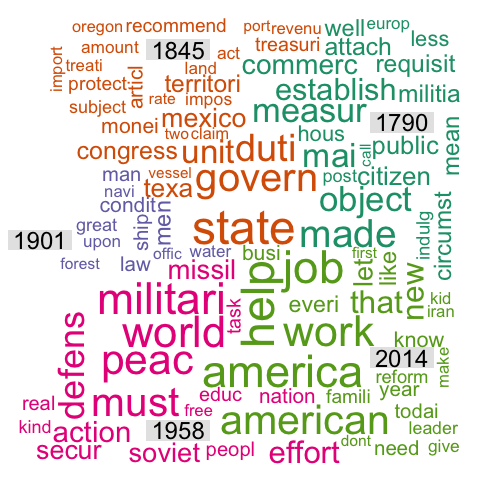
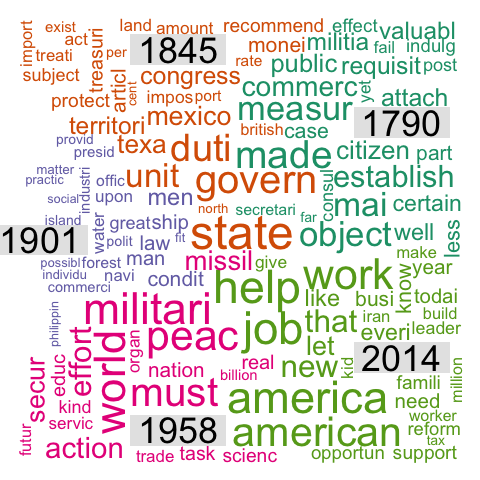
final tweaks

diff --git a/homework4/README.md b/homework4/README.md
@@ -11,7 +11,7 @@ First I wrote a script `scrape-sotu.py` that programmatically extracts the conte
 
 ### Outliers ###
 
-Because I was interested in the SOTU corpus *changes* over time, I coerced the term document matrix into a dataframe and melted it down to a longer format to appease `ggplot2`. For each word in the term document matrix, I calculated a crude but effective index of "outlieriness" by subtracting the word's mean frequency from its maximum frequency. I then plotted a multiple line chart for the words that ranked highest according to this measure. To improve the data-to-ink ratio, I removed unnecessary vertical grid lines, leaving only the major horizontal gridlines and tick marks. I only label the time axis every decade, as opposed to every year. I opted to remove the title of the x axis entirely, because I feel context is sufficient to immediately assume that the numbers are dates. The most interesting design choice that I made was to completely remove the legend. Because the entire point of the visualization is to look at the *outliers*, I simply annotated the outlying point for each word. This reduces the eye movement necessary to consume the plot and frees up more space for the actual line chart, not to mention the fact that the colors would have been hard to use on their own anyways. Lastly, this chart is best viewed with a slightly higher aspect ratio than most plots that I usually generate.
+Because I was interested in the SOTU corpus *changes* over time, I coerced the term document matrix into a dataframe and melted it down to a longer format to appease `ggplot2`. For each word in the term document matrix, I calculated a crude but effective index of "outlieriness" by subtracting the word's mean frequency from its maximum frequency. I then plotted a multiple line chart for the words that ranked highest according to this measure. To improve the data-to-ink ratio, I removed unnecessary vertical grid lines, leaving only the major horizontal gridlines and tick marks. I only label the time axis every decade, as opposed to every year. I opted to remove the title of the x axis entirely, because I feel context is sufficient to immediately assume that the numbers are dates. The most interesting design choice that I made was to completely remove the legend. Because the entire point of the visualization is to look at the *outliers*, I simply annotated the outlying point for each word. This reduces the eye movement necessary to consume the plot and frees up more space for the actual line chart, not to mention the fact that the colors would have been hard to use on their own anyways. Lastly, this chart is best viewed with a slightly higher aspect ratio than most plots that I usually generate. Overplotting addmittedly makes it a bit difficult to follow any particular word over time, but this isn't the intended way for a viewer to be interpreting the plot anyways. Line charts, when using proper axes that start at zero, etc, generally have a relatively low lie factor, and I don't believe this chart to be an exception.
 
 ![Outliers](https://github.com/justmytwospence/msan622/blob/master/homework4/outliers.png?raw=true)
 
@@ -22,3 +22,5 @@ I belive that this plot has a very apparent and interesting interpetation. Essen
 Rather than creating a single wordcloud, I used a comparison wordcloud to create an alternative view of the SOTU over time theme of the previous plot. One could make the argument that a wordcloud complements the multiple line graph nicely because the wordcloud has a higher resolution for any one SOTU (it can include more words than I would feel comfortable plotting together as lines for any one year), but it's resolution in the time domain is much lower (I'm much more limited in the number of years that I can actually compare clouds of side by side). I decided to include **five** SOTU speeches to compare in the wordcloud(s), equally spaced from George Washington's first in 1790 through Barack Obama's in 2014.
 
 ![Outliers](https://github.com/justmytwospence/msan622/blob/master/homework4/wordcloud.png?raw=true)
+
+Its honestly very difficult to talk about the density, data-ink ratio, or lie factor of a word cloud, because there is just so little to them in the first place. I don't believe this wordcloud can claim to be any good along any of those measures, but then again I think most wordclouds would have an equally tough time.
